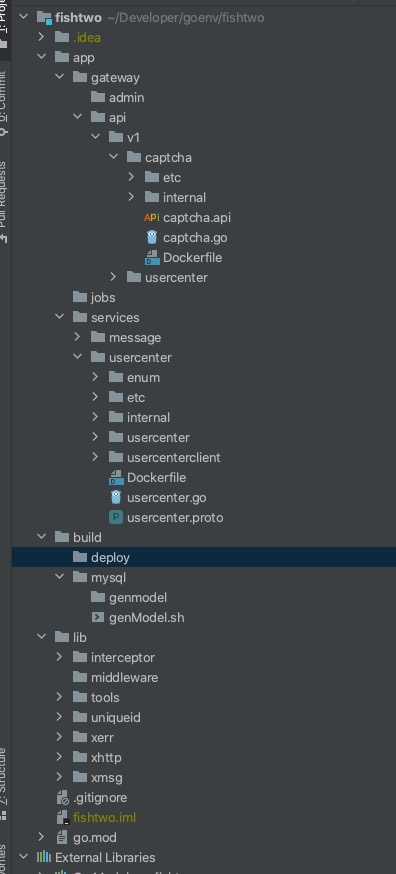
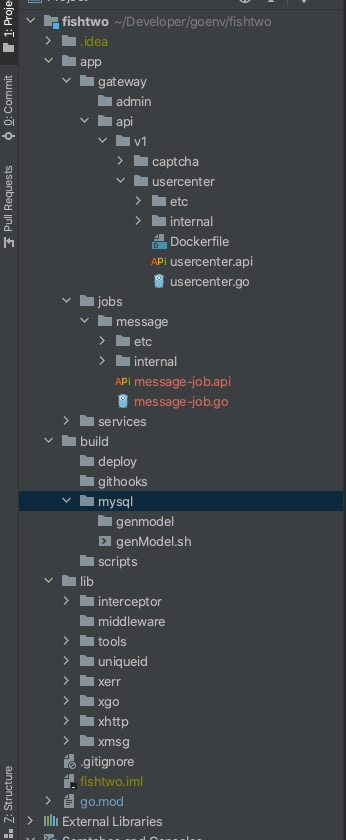
添加了jobs

diff --git a/6 go-zero  jobs.md b/6 go-zero  jobs.md
@@ -1,0 +1,264 @@
+日常任务开放中，我们会有很多异步、批量、定时、延迟任务要处理，go-zero中有go-queue，推荐使用go-queue去处理，go-queue本身也是基于go-zero开发的，其本身是有两种模式
+
+- dq : 依赖于beanstalkd，分布式，可存储，延迟、定时设置，关机重启可以重新执行，消息会丢失，使用非常简单，go-queue中使用了redis setnx保证了每个消息只被消费一次，使用场景主要是用来做日常任务使用
+- kq：依赖于kafka，这个就不多介绍啦，大名鼎鼎的kafka，使用场景主要是做日志用
+
+我们主要说一下dq，kq使用也一样的，只是依赖底层不同，如果没使用过beanstalkd，没接触过beanstalkd的可以先google一下，使用起来还是挺容易的。
+
+我在jobs下使用goctl新建了一个message-job.api服务
+
+```go
+info(
+	title: //消息任务
+	desc: // 消息任务
+	author: "Mikael"
+	email: "13247629622@163.com"
+)
+
+type BatchSendMessageReq {}
+
+type BatchSendMessageResp {}
+
+service message-job-api {
+	@handler batchSendMessageHandler // 批量发送短信
+	post batchSendMessage(BatchSendMessageReq) returns(BatchSendMessageResp)
+}
+```
+
+
+
+因为不需要使用路由，所以handler下的routes.go被我删除了，在handler下新建了一个jobRun.go，内容如下：
+
+```go
+package handler
+
+import (
+	"fishtwo/lib/xgo"
+	"fishtwo/app/jobs/message/internal/svc"
+)
+
+
+/**
+* @Description 启动job
+* @Author Mikael
+* @Date 2021/1/18 12:05
+* @Version 1.0
+**/
+
+func JobRun(serverCtx *svc.ServiceContext)  {
+
+	xgo.Go(func() {
+		batchSendMessageHandler(serverCtx)
+    //...many job
+	})
+}
+```
+
+其实xgo.Go就是 go batchSendMessageHandler(serverCtx) ，封装了一下go携程，防止野生goroutine panic
+
+
+
+然后修改一下启动文件message-job.go
+
+```go
+package main
+
+import (
+   "flag"
+   "fmt"
+
+   "fishtwo/app/jobs/message/internal/config"
+   "fishtwo/app/jobs/message/internal/handler"
+   "fishtwo/app/jobs/message/internal/svc"
+
+   "github.com/tal-tech/go-zero/core/conf"
+   "github.com/tal-tech/go-zero/rest"
+)
+
+var configFile = flag.String("f", "etc/message-job-api.yaml", "the config file")
+
+func main() {
+   flag.Parse()
+
+   var c config.Config
+   conf.MustLoad(*configFile, &c)
+
+   ctx := svc.NewServiceContext(c)
+   server := rest.MustNewServer(c.RestConf)
+   defer server.Stop()
+
+   handler.JobRun(ctx)
+
+   fmt.Printf("Starting server at %s:%d...\n", c.Host, c.Port)
+   server.Start()
+}
+```
+
+主要是handler.RegisterHandlers(server, ctx) 修改为handler.JobRun(ctx)
+
+
+
+接下来，我们就可以引入dq了，首先在etc/xxx.yaml下添加dqConf
+
+```yaml
+.....
+
+DqConf:
+  Beanstalks:
+    - Endpoint: 127.0.0.1:7771
+      Tube: tube1
+    - Endpoint: 127.0.0.1:7772
+      Tube: tube2
+  Redis:
+    Host: 127.0.0.1:6379
+    Type: node
+
+```
+
+我这里本地用不同端口，模拟开了2个节点，7771、7772
+
+在internal/config/config.go添加配置解析对象
+
+```go
+type Config struct {
+	....
+	DqConf dq.DqConf
+}
+
+```
+
+
+
+修改handler/batchsendmessagehandler.go
+
+```go
+package handler
+
+import (
+	"context"
+	"fishtwo/app/jobs/message/internal/logic"
+	"fishtwo/app/jobs/message/internal/svc"
+	"github.com/tal-tech/go-zero/core/logx"
+)
+
+func batchSendMessageHandler(ctx *svc.ServiceContext){
+
+	rootCxt:= context.Background()
+	l := logic.NewBatchSendMessageLogic(context.Background(), ctx)
+	err := l.BatchSendMessage()
+	if err != nil{
+		logx.WithContext(rootCxt).Error("【JOB-ERR】 : %+v ",err)
+	}
+}
+
+```
+
+
+
+修改logic下batchsendmessagelogic.go，写我们的consumer消费逻辑
+
+ ```go
+package logic
+
+import (
+	"context"
+	"fishtwo/app/jobs/message/internal/svc"
+	"fmt"
+	"github.com/tal-tech/go-zero/core/logx"
+)
+
+type BatchSendMessageLogic struct {
+	logx.Logger
+	ctx    context.Context
+	svcCtx *svc.ServiceContext
+}
+
+func NewBatchSendMessageLogic(ctx context.Context, svcCtx *svc.ServiceContext) BatchSendMessageLogic {
+	return BatchSendMessageLogic{
+		Logger: logx.WithContext(ctx),
+		ctx:    ctx,
+		svcCtx: svcCtx,
+	}
+}
+
+
+func (l *BatchSendMessageLogic) BatchSendMessage() error {
+
+	fmt.Printf("job BatchSendMessage start \n")
+
+	l.svcCtx.Consumer.Consume(func(body []byte) {
+		fmt.Printf("job BatchSendMessage %s \n" + string(body))
+	})
+
+	fmt.Printf("job BatchSendMessage finish \n")
+	return nil
+}
+
+ ```
+
+
+
+这样就大功告成了，启动message-job.go就ok课
+
+```shell
+go run message-job.go
+```
+
+
+
+之后我们就可以在业务代码中向dq添加任务，它就可以自动消费了
+
+
+
+ producer.Delay 向dq中投递5个延迟任务：
+
+```go
+	producer := dq.NewProducer([]dq.Beanstalk{
+		{
+			Endpoint: "localhost:7771",
+			Tube:     "tube1",
+		},
+		{
+			Endpoint: "localhost:7772",
+			Tube:     "tube2",
+		},
+	})
+
+	for i := 1000; i < 1005; i++ {
+		_, err := producer.Delay([]byte(strconv.Itoa(i)), time.Second * 1)
+		if err != nil {
+			fmt.Println(err)
+		}
+	}
+```
+
+ producer.At可以指定某个时间执行，非常好用，感兴趣的朋友自己可以研究下
+
+
+
+
+
+
+
+
+
+
+
+
+
+
+
+
+
+
+
+
+
+
+
+
+
+
+
+
+

diff --git a/2 go-zero架构.md b/2 go-zero架构.md
@@ -37,9 +37,7 @@ $ goctl kube deploy -name user-api -namespace blog -image user:v1 -o user.yaml -
 
 ### 访问流程
 
-app/web/pc首先访问到阿里云的负载均衡SLB，同时SLB可以将你的后端服务器ip隐藏起来，同时可以预防DDOS攻击，虽然有额度的，但是好过没有～～，然后SLB访问到你的K8S中的ingress，ingress不用你操心啦，如果你用了阿里云的k8s，什么ingress、什么promethuse、什么日志服务通通通通都给你搞定，我们量还没那么大，如果量特别大感觉性价比不高，日志这种就可以自己做嘛，
-
-嗯，然后ingress就可以负载均衡到到你的api服务，然后api可以在etcd中拿到多个rpc节点，调用多个后端rpc服务，rpc负责跟db交互、或者调用其他rpc获取数据（当然api、rpc之间是通过etcd动态发现的）返回给api，api就是聚合数据，然后层层返回到客户端。
+app/web/pc 透过防火墙，首先访问到阿里云的负载均衡SLB，同时SLB可以将你的后端服务器ip隐藏起来，同时可以预防DDOS攻击，虽然有额度的，但是好过没有～～，然后SLB访问到前面的nginx，nginx作为代理使用，k8s中的service通过 nodeport方式暴露出来在nignx中代理到该service，同时在nginx中上报日志到kafka，然后api可以在etcd中拿到多个rpc节点，调用多个后端rpc服务，rpc负责跟db交互、或者调用其他rpc获取数据（当然api、rpc之间是通过etcd动态发现的）返回给api，api就是聚合数据，然后层层返回到客户端。
 
 
 

diff --git a/8 go-zero  model.md b/8 go-zero  model.md
@@ -1,4 +1,4 @@
-go-zero中最大特色就是model层，防缓存击穿，基本把db数据都是加载到了redis中，把redis当从库在用，真的很牛设计思路，可以去看model层源码，另外有的用户觉得不习惯 ，那你就可以放弃这里改造成gorm等，但是个人感觉这个是很牛逼的特点，还是喜欢这一点，还有我是喜欢手写sql党，不太喜欢orm，哈哈。
+go-zero中最大特色就是model层，防缓存击穿，基本把db数据都是加载到了redis中，把redis当从库在用，可以去看model层源码，另外有的用户觉得不习惯 ，那你就可以放弃这里改造成gorm等，但是个人感觉这个是很牛逼的特点，还是喜欢这一点，还有我是喜欢手写sql党，不太喜欢orm，哈哈。
 
 
 

diff --git a/7 go-zero 错误日志.md b/7 go-zero 错误日志.md
@@ -14,7 +14,7 @@
 
 
 
-错误处理是听了毛神的课，然后我代码里面使用github/pkg/errors这个包去处理错误的,这个包还是很好用的
+然后我代码里面使用github/pkg/errors这个包去处理错误的,这个包还是很好用的
 
 ![1610623943343](./images/六/1610623943343.jpg)
 
